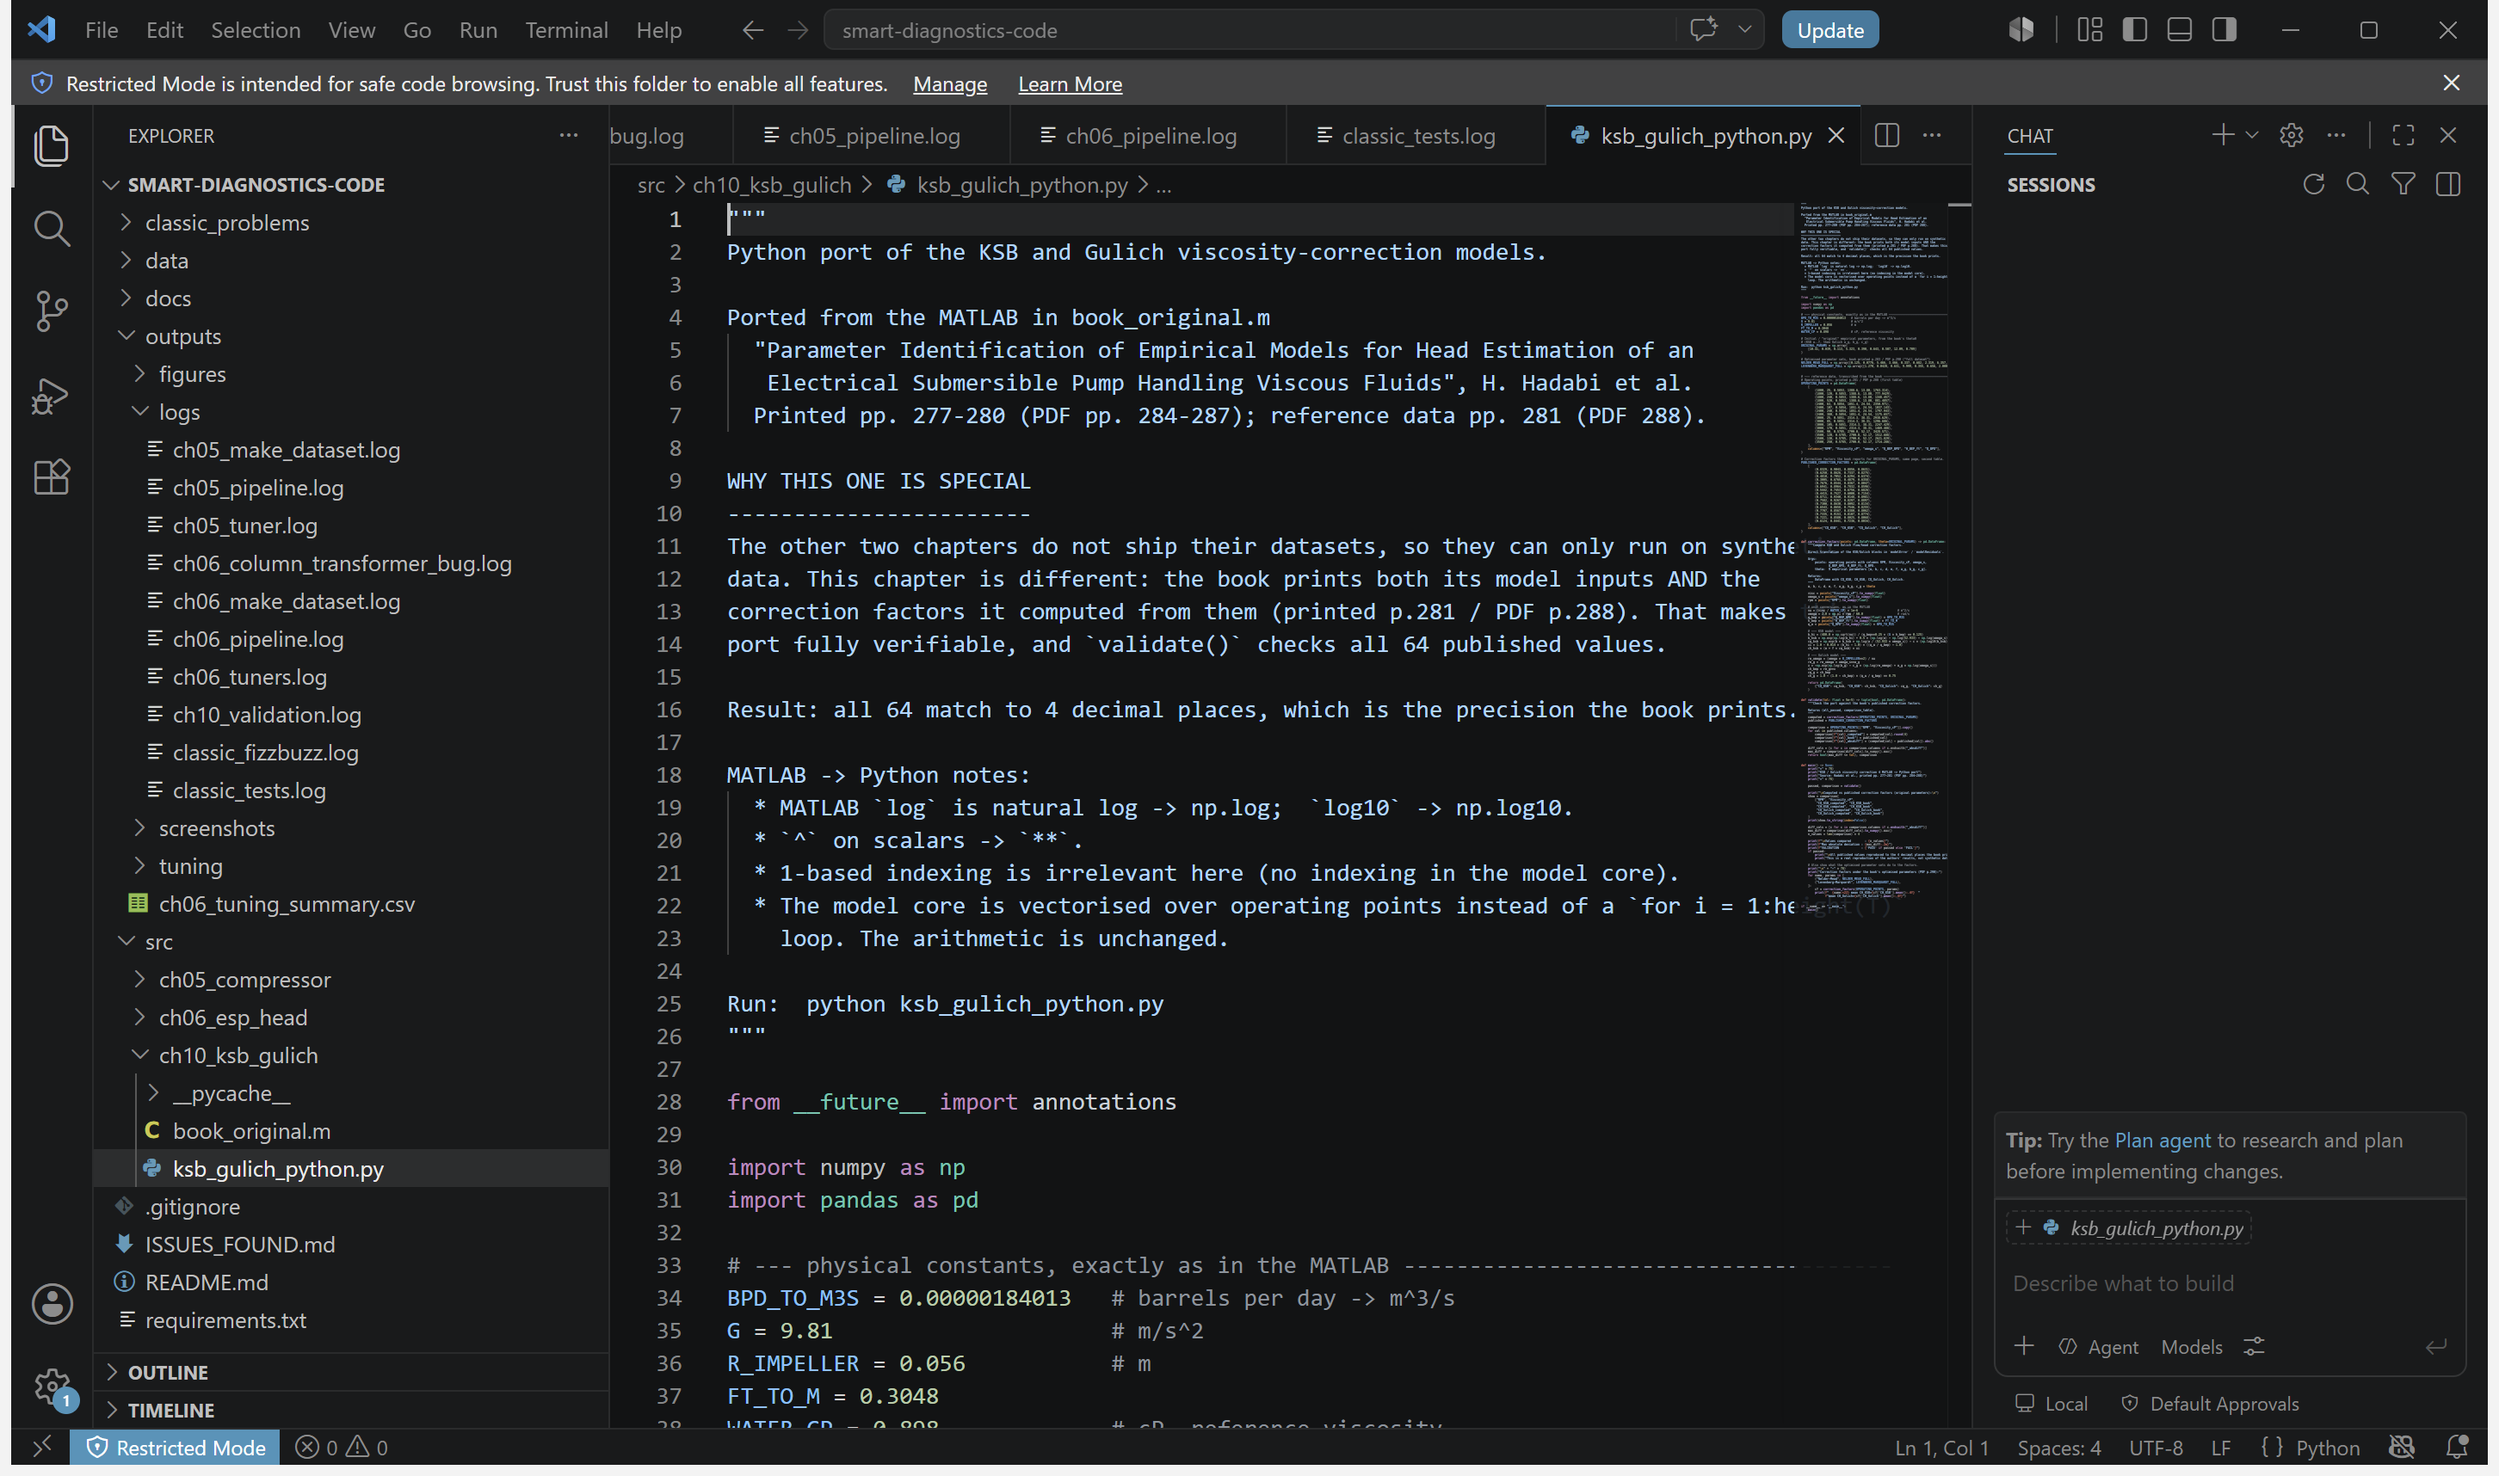
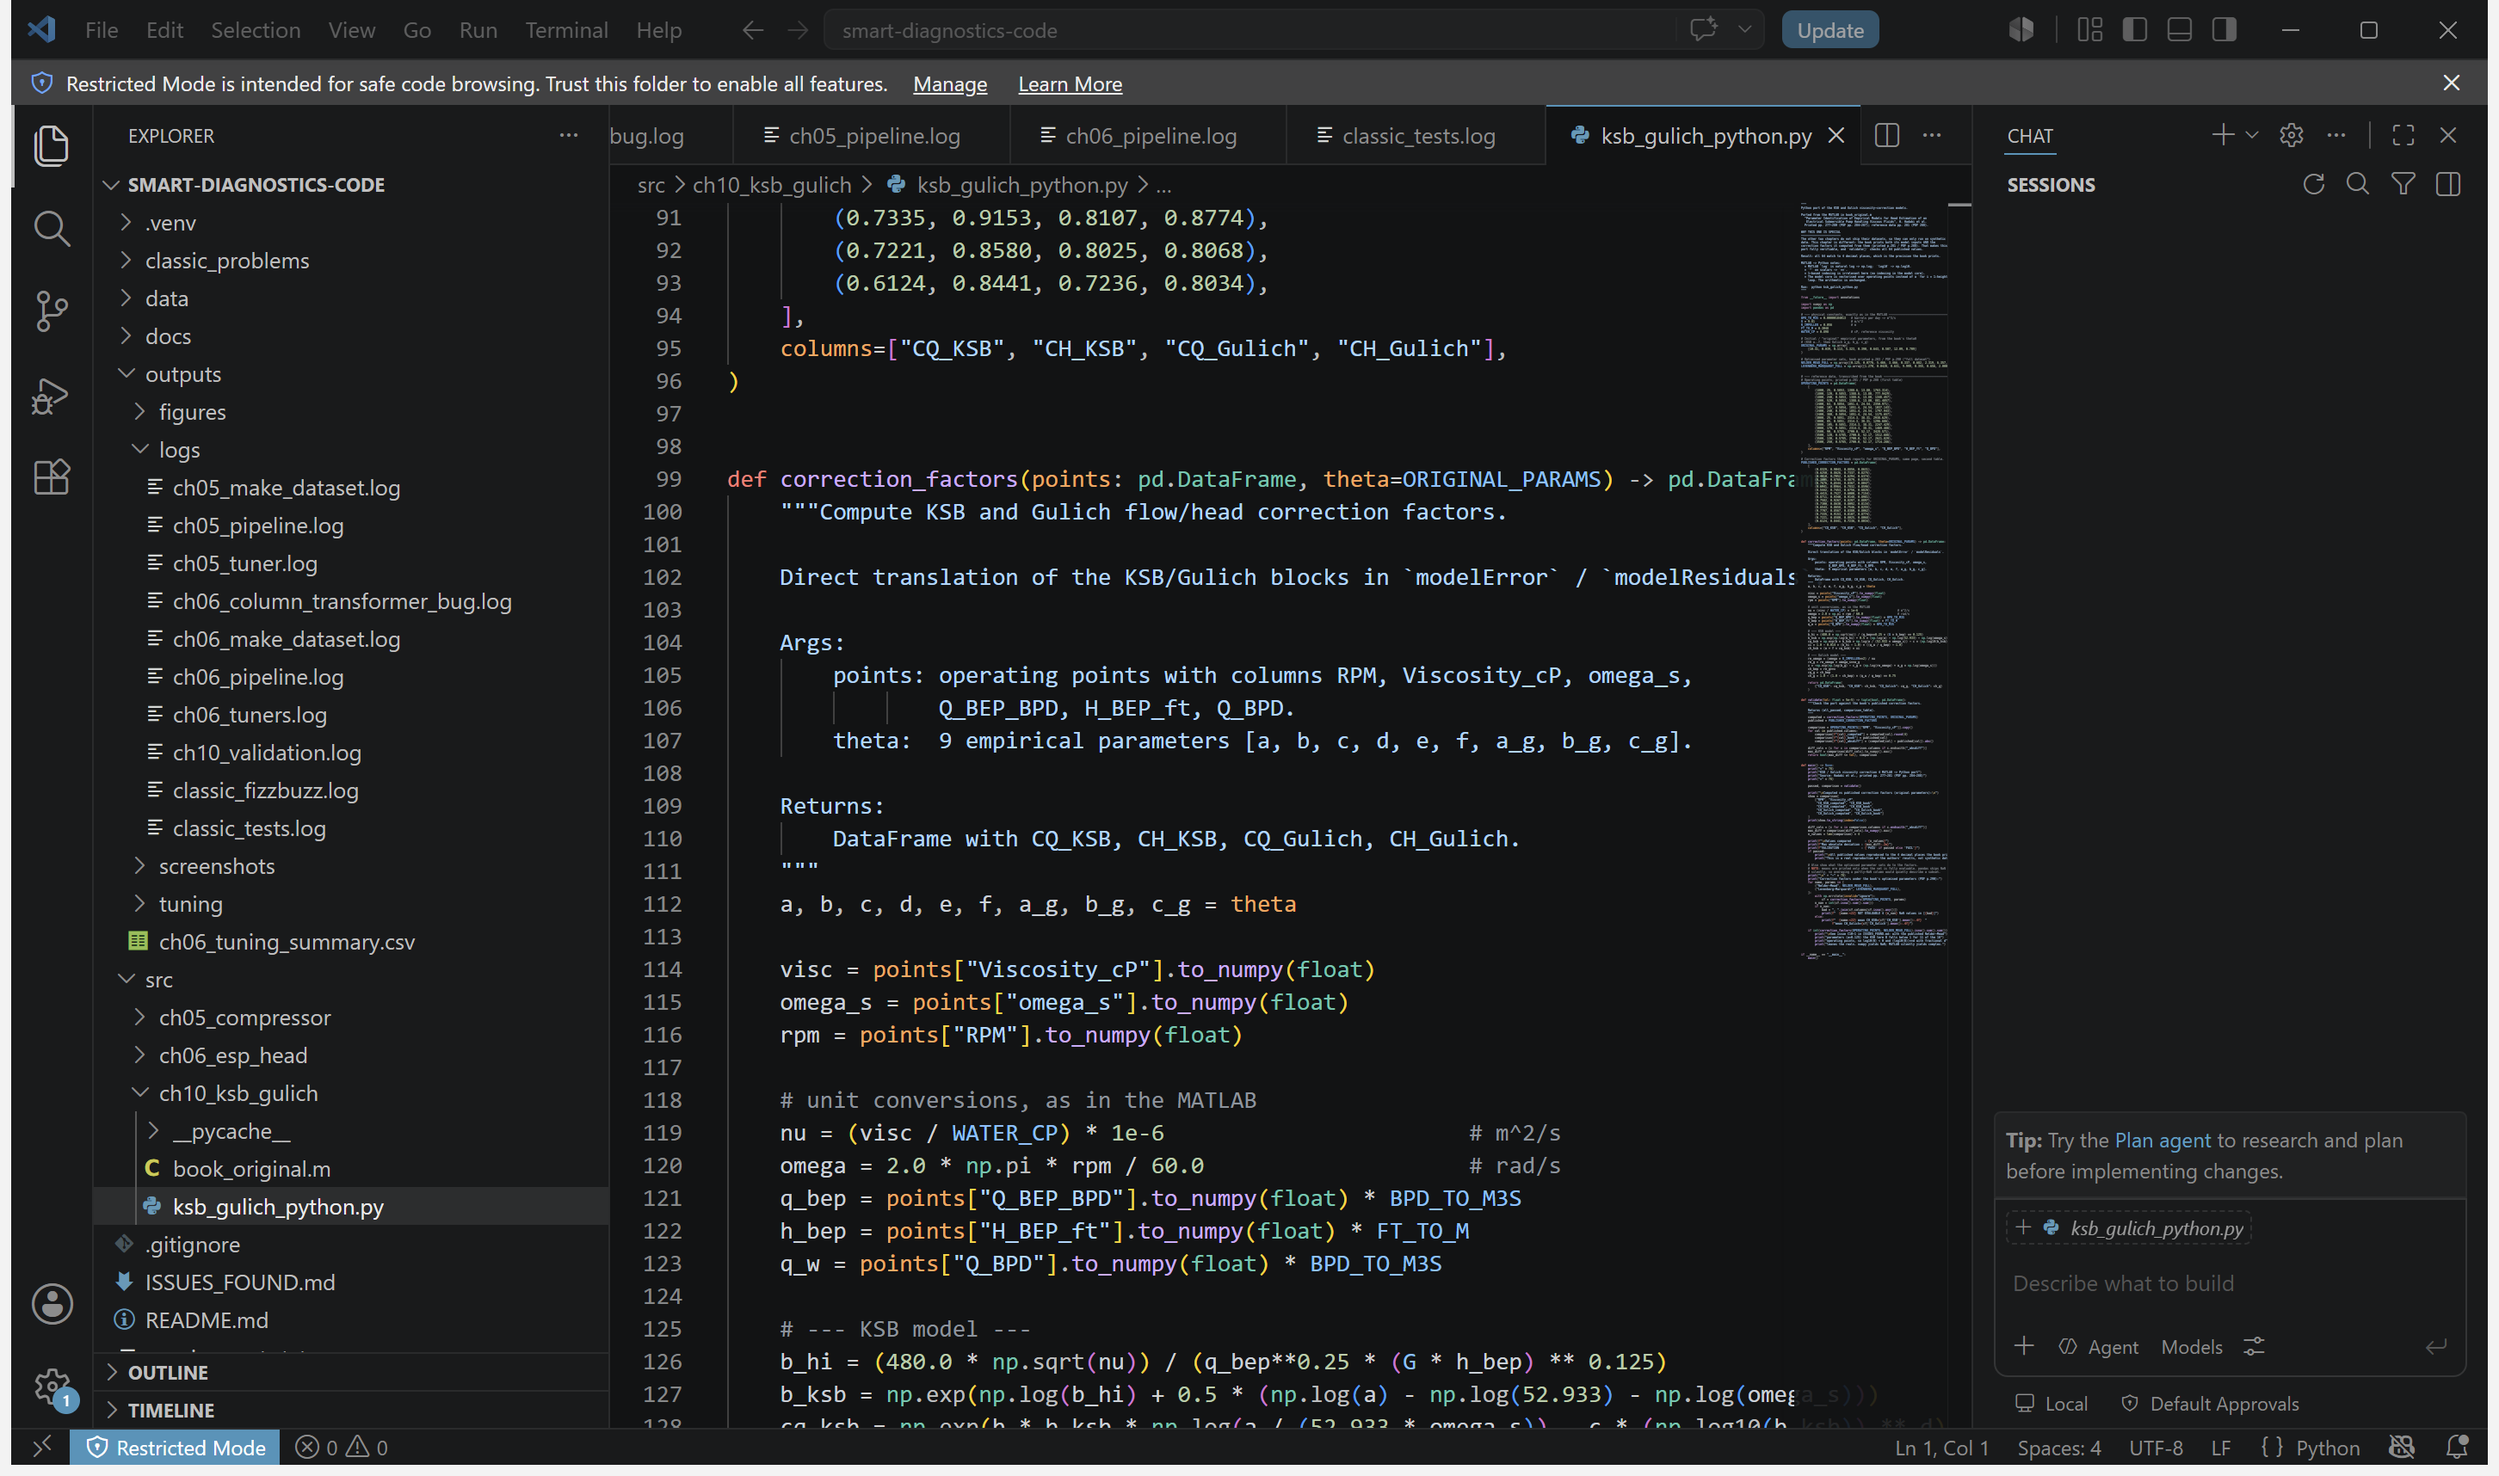
Refresh stale screenshot and add captures of both seeded tuner searches
The README and screenshots were already pushed in 2f33d14, but two screenshots
were out of date with the files they show:

- 06_ksb_gulich_source.png predated the C10-1 NaN-reporting change to
  ksb_gulich_python.py, so it showed the older source.
- The two tuner logs had no screenshot at all, despite being the output that
  changed most when the searches were seeded.

Re-captured 06 and added 07/08 for the compressor Bayesian search and the ESP
MLP/FCC search. 08 shows RandomSearch and BayesianOptimization returning
genuinely different architectures now that they no longer share a seed.

The remaining screenshots depict deterministic output and are unchanged in
content, so they were left as they were.

diff --git a/README.md b/README.md
@@ -203,7 +203,12 @@ Captured from VS Code on the machine that ran the code (`outputs/screenshots/`).
 ![ColumnTransformer bug](outputs/screenshots/02_ch06_columntransformer_bug.png)
 
 Also in `outputs/screenshots/`: compressor training output, the MLP-vs-FCC comparison,
-the 13/13 test run, and the ported KSB/Gülich source.
+the 13/13 test run, the ported KSB/Gülich source, and both seeded hyperparameter
+searches (`07_ch05_bayesian_tuner.png`, `08_ch06_tuner_search.png`).
+
+All eight are captured with `PrintWindow(PW_RENDERFULLCONTENT)` so they show VS Code's own
+content rather than whatever happened to be on screen, and each was checked for private
+content before committing.
 
 Plot output is in `outputs/figures/` and terminal transcripts in `outputs/logs/`.
 
